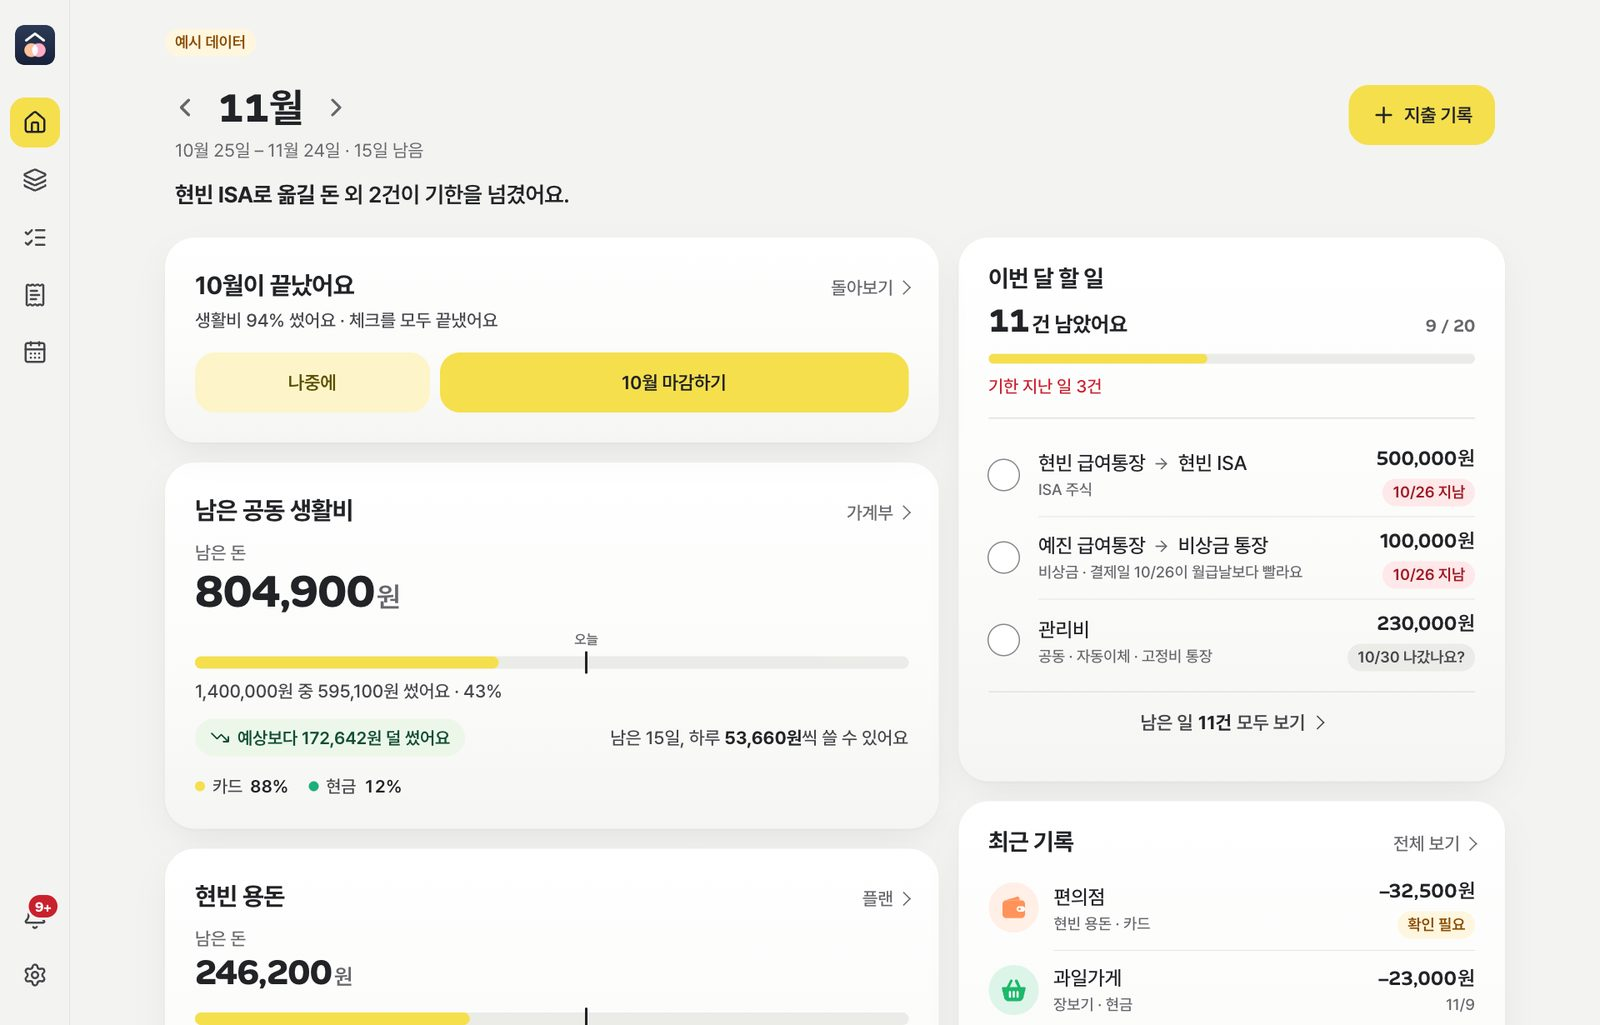
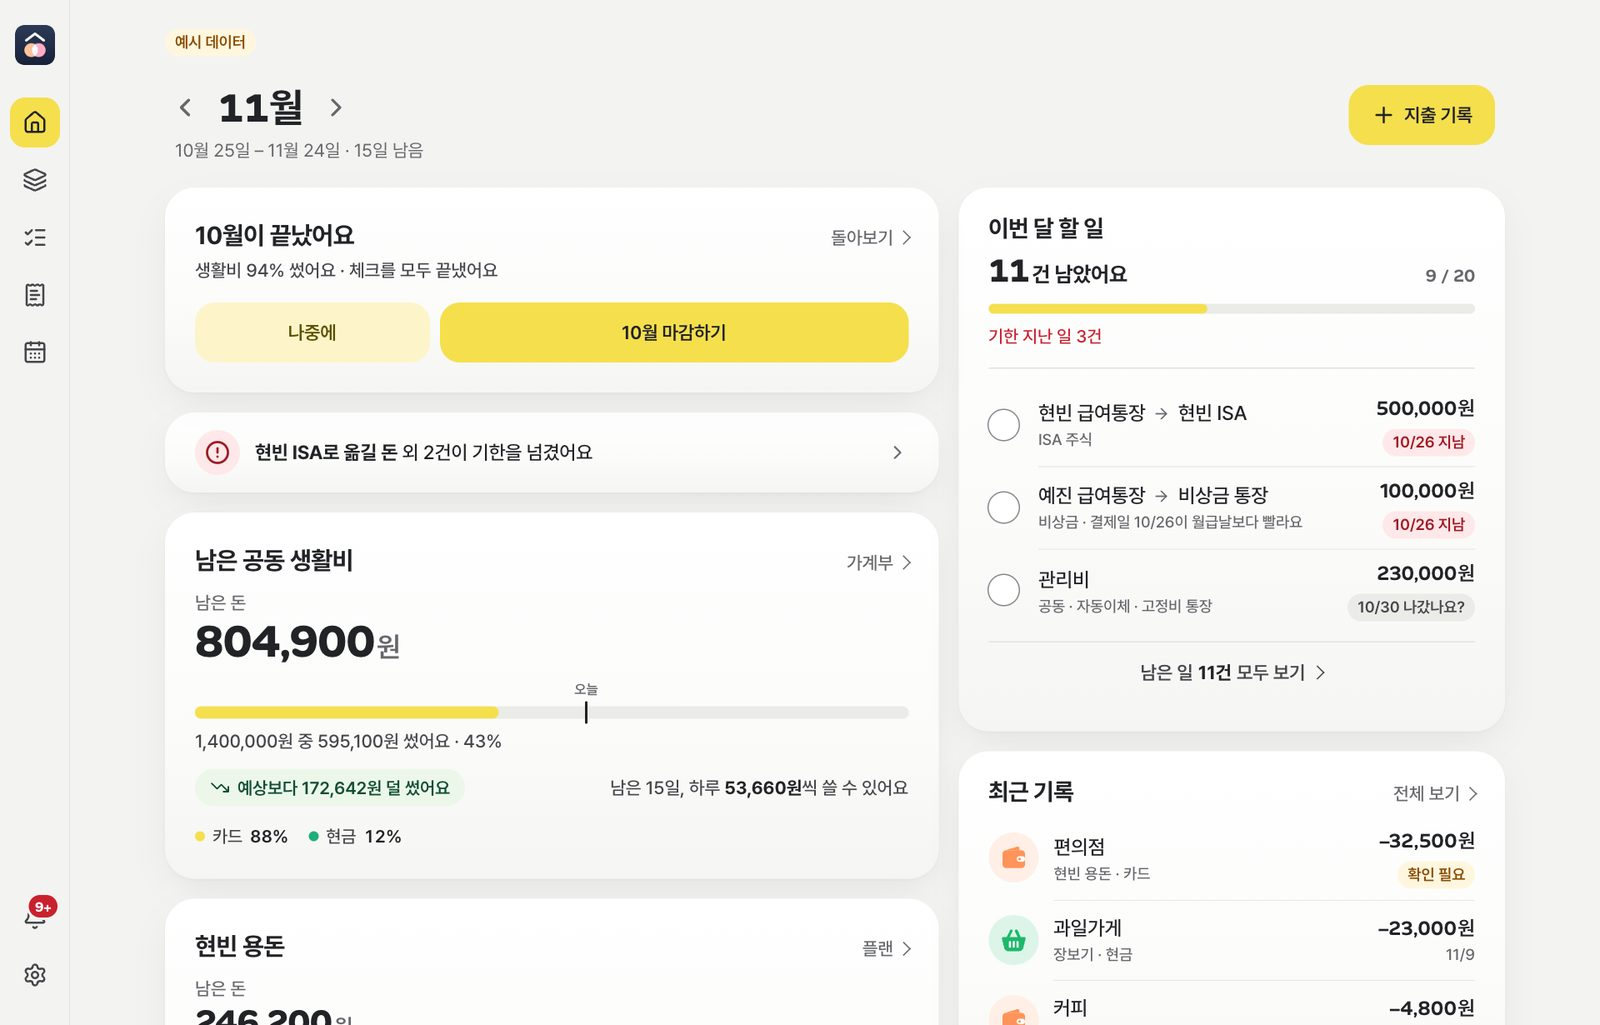
홈 맨 위 결론 문장을 알림 카드로 — 아이콘 원 · 한 줄 · ›, 모든 화면 머리는 달·기간만
체크·플랜처럼 홈도 머리 문장을 없앤다(카드 밖 문장은 글자 폭만큼만 차지해 카드들과 줄이 안 맞음).
- "가장 먼저 알아야 할 것" 우선순위는 그대로(기한 넘김 → 확인 부탁 → 오늘 월급날 → 옮길 돈 → 모두 마침
  → 생활비 빠름 → 다음 월급날), 맨 위 Link 카드 하나로. 아이콘 원 색은 상태 알약 pill-* 와 같고,
  누르면 체크(생활비는 가계부). 할 일 카드와 겹치는 "남은 할 일 N건"뿐이면 카드를 두지 않는다
- 이제 쓰지 않는 .finding CSS 와 finding 글자 토큰 삭제
- 디자인 문서(README 글자, TopBar 문서·미리보기), 변경기록, 스크린샷 2장

diff --git a/apps/web/src/app/page.tsx b/apps/web/src/app/page.tsx
@@ -1,6 +1,7 @@
 "use client";
 
 import Link from "next/link";
+import { ArrowRightLeft, Banknote, CalendarClock, ChevronRight, CircleAlert, CircleCheck, CircleHelp, TrendingUp, type LucideIcon } from "lucide-react";
 import { useData } from "@/lib/store";
 import type { Spending } from "@/lib/types";
 import { allowanceStatus, cardBills, livingStatus, nameOf, spendingsIn } from "@/lib/calc";
@@ -21,6 +22,14 @@ import { Morph } from "@/components/Morph";
 
 /** 홈에 보이는 할 일 수 — 급한 순으로 이만큼만, 나머지는 체크 화면에서 */
 const HOME_TODOS = 3;
+
+/** 홈 맨 위 알림 카드 하나 — 색은 상태 알약과 같은 네 가지 */
+interface Nudge {
+  tone: "negative" | "warning" | "positive" | "neutral";
+  icon: LucideIcon;
+  href: string;
+  text: React.ReactNode;
+}
 
 export default function Home() {
   const { data, month, today, me } = useData();
@@ -54,79 +63,85 @@ export default function Home() {
     data.categories.find((c) => c.id === id)?.name ?? (owner === "joint" ? "미분류" : `${nameOf(s, owner)} 용돈`);
   const accName = (id: string | null) => data.accounts.find((a) => a.id === id)?.name;
 
-  // 이번 달에 가장 먼저 알아야 할 것 한 줄
-  let finding: React.ReactNode;
+  // 이번 달에 가장 먼저 알아야 할 것 하나 — 화면 머리 문장 대신 맨 위 알림 카드(토스 홈의 알림 줄처럼). 할 일 카드와 겹치는 "남은 할 일 N건"이면 두지 않는다
+  let nudge: Nudge | null = null;
   if (overdue.length > 0) {
-    finding = (
-      <>
-        <strong>{overdue[0].kind === "transfer" ? `${ro(overdue[0].to ?? "")} 옮길 돈` : overdue[0].title}</strong>
-        {overdue.length > 1 ? ` 외 ${overdue.length - 1}건이` : iga(overdue[0].kind === "transfer" ? "돈" : overdue[0].title).slice(-1)} 기한을 넘겼어요.
-      </>
-    );
+    nudge = {
+      tone: "negative",
+      icon: CircleAlert,
+      href: "/check",
+      text: (
+        <>
+          <strong>{overdue[0].kind === "transfer" ? `${ro(overdue[0].to ?? "")} 옮길 돈` : overdue[0].title}</strong>
+          {overdue.length > 1 ? ` 외 ${overdue.length - 1}건이` : iga(overdue[0].kind === "transfer" ? "돈" : overdue[0].title).slice(-1)} 기한을 넘겼어요
+        </>
+      ),
+    };
   } else if (asks.length > 0) {
     // 자동으로 나가는 돈은 다그치지 않고 확인만 부탁한다
-    finding = (
-      <>
-        <strong>{asks[0].title}</strong>
-        {asks.length > 1 ? ` 외 ${asks.length - 1}건이` : iga(asks[0].title).slice(-1)} 잘 나갔는지 확인해 주세요.
-      </>
-    );
+    nudge = {
+      tone: "neutral",
+      icon: CircleHelp,
+      href: "/check",
+      text: (
+        <>
+          <strong>{asks[0].title}</strong>
+          {asks.length > 1 ? ` 외 ${asks.length - 1}건이` : iga(asks[0].title).slice(-1)} 잘 나갔는지 확인해 주세요
+        </>
+      ),
+    };
   } else if (paydayToday) {
     const left = paydayToday.transfers.filter((t) => !t.done);
-    finding = (
-      <>
-        <span className="nw">
-          오늘은 <strong>{nameOf(s, paydayToday.person)} 월급날</strong>이에요
-        </span>{" "}
-        <span className="nw clause">
-          <span className="sep">· </span>옮길 돈 {left.length}건 <Money value={left.reduce((a, t) => a + t.amount, 0)} />
-        </span>
-      </>
-    );
+    nudge = {
+      tone: "positive",
+      icon: Banknote,
+      href: "/check",
+      text: (
+        <>
+          오늘은 <strong>{nameOf(s, paydayToday.person)} 월급날</strong>이에요 · 옮길 돈 {left.length}건 <Money value={left.reduce((a, t) => a + t.amount, 0)} />
+        </>
+      ),
+    };
   } else if (pendingTransfers.length > 0) {
-    finding = (
-      <>
-        <span className="nw">
-          옮길 돈 <strong>{pendingTransfers.length}건</strong>이 남았어요
-        </span>{" "}
-        <span className="nw clause">
-          <span className="sep">· </span><Money value={pendingTransfers.reduce((a, t) => a + t.amount, 0)} />
-        </span>
-      </>
-    );
+    nudge = {
+      tone: "neutral",
+      icon: ArrowRightLeft,
+      href: "/check",
+      text: (
+        <>
+          옮길 돈 <strong>{pendingTransfers.length}건</strong>이 남았어요 · <Money value={pendingTransfers.reduce((a, t) => a + t.amount, 0)} />
+        </>
+      ),
+    };
   } else if (open.length === 0 && tasks.length > 0) {
-    finding = <>이번 달 이체와 납부를 모두 마쳤어요.</>;
+    nudge = { tone: "positive", icon: CircleCheck, href: "/check", text: <>이번 달 이체와 납부를 모두 마쳤어요</> };
   } else if (living.pace !== null && living.spent > living.pace) {
-    finding = (
-      <>
-        생활비가 예상보다 <strong>{num(living.spent - living.pace)}원</strong> 빨리 나가고 있어요.
-      </>
-    );
+    nudge = {
+      tone: "warning",
+      icon: TrendingUp,
+      href: "/ledger",
+      text: (
+        <>
+          생활비가 예상보다 <strong>{num(living.spent - living.pace)}원</strong> 빨리 나가고 있어요
+        </>
+      ),
+    };
   } else if (nextPayday && nextPayday.transfers.some((t) => !t.done)) {
-    finding = (
-      <>
-        <span className="nw">
-          다음은 <strong>{nameOf(s, nextPayday.person)} 월급날</strong> {shortDate(nextPayday.date)}
-        </span>{" "}
-        <span className="nw clause">
-          <span className="sep">· </span>
-          {dDay(nextPayday.date, today)}
-        </span>
-      </>
-    );
-  } else {
-    finding = (
-      <>
-        남은 할 일 <strong>{open.length}건</strong>
-      </>
-    );
+    nudge = {
+      tone: "neutral",
+      icon: CalendarClock,
+      href: "/check",
+      text: (
+        <>
+          다음은 <strong>{nameOf(s, nextPayday.person)} 월급날</strong> {shortDate(nextPayday.date)} · {dDay(nextPayday.date, today)}
+        </>
+      ),
+    };
   }
 
   return (
     <>
-      <MonthHeader>
-        <p className="finding">{finding}</p>
-      </MonthHeader>
+      <MonthHeader />
 
       <div className="grid">
         <div className="col span-7">
@@ -134,6 +149,15 @@ export default function Home() {
           <Morph className="close-slot" track=":scope > *">
             <ClosePrompt />
           </Morph>
+          {nudge && (
+            <Link href={nudge.href} className={`card nudge ${nudge.tone}`}>
+              <span className="ic" aria-hidden="true">
+                <nudge.icon />
+              </span>
+              <span className="t">{nudge.text}</span>
+              <ChevronRight className="chev" aria-hidden="true" />
+            </Link>
+          )}
           <BudgetCard id="living-h" className="o1" bucket="living" title="남은 공동 생활비" status={living} link={{ href: "/ledger", label: "가계부" }} />
 
           <BudgetCard

diff --git a/apps/web/src/app/cards.css b/apps/web/src/app/cards.css
@@ -239,6 +239,21 @@
 .highlight .reward b { font: 700 20px/28px var(--font-display); font-variant-numeric: tabular-nums; }
 .highlight .reward > span { color: var(--faint); font: 500 14.5px/20px var(--font-text); }
 
+/* ---------- 홈 맨 위 알림 카드 (Nudge): 화면 머리 문장 대신. 아이콘 원 · 한 줄 · › ---------- */
+.nudge { display: grid; grid-template-columns: 36px minmax(0, 1fr) 18px; align-items: center; gap: 12px; padding-block: 14px; color: var(--text); transition: transform var(--dur-press) var(--ease-press); }
+.nudge:active { transform: scale(0.98); }
+.nudge .ic { display: grid; place-items: center; width: 36px; height: 36px; border-radius: var(--radius-chip); background: var(--pill-neutral-bg); color: var(--pill-neutral-ink); }
+.nudge .ic svg { width: 20px; height: 20px; stroke-width: 2.2; }
+.nudge.negative .ic { background: var(--pill-negative-bg); color: var(--pill-negative-ink); }
+.nudge.warning .ic { background: var(--pill-warning-bg); color: var(--pill-warning-ink); }
+.nudge.positive .ic { background: var(--pill-positive-bg); color: var(--pill-positive-ink); }
+.nudge .t { font: 500 15.5px/22px var(--font-text); letter-spacing: -0.01em; }
+.nudge .t strong { font-weight: 700; }
+.nudge .chev { width: 18px; height: 18px; color: var(--faint); }
+@media (prefers-reduced-motion: reduce) {
+  .nudge { transition: none; }
+}
+
 /* ---------- 지난달 마감 묻기 (ClosePrompt, 홈 맨 위) ---------- */
 
 /* 빈 자리는 칸 간격까지 0 (카드가 빠질 때 간격도 같이 줄어든다) */

diff --git a/docs/design-system/components/TopBar/preview.html b/docs/design-system/components/TopBar/preview.html
@@ -18,7 +18,6 @@
   .band .mini { visibility: hidden; }
   h1 { margin: 0; font: 700 32px/36px var(--font-display); letter-spacing: -0.02em; }
   .sub { margin-top: 6px; color: var(--faint); font: 400 14.5px/20px var(--font-text); }
-  .finding { margin-top: 12px; font: 600 18px/28px var(--font-text); letter-spacing: -0.015em; }
   .cap { margin: 20px 0 8px; color: var(--faint); font: 500 14.5px/20px var(--font-text); }
   .plain { max-width: 390px; display: grid; gap: 22px; padding: 16px var(--edge) 20px; box-sizing: border-box; }
   .title-row { display: flex; align-items: center; gap: 12px; flex-wrap: wrap; }
@@ -37,7 +36,6 @@
     <div>
       <h1>11월</h1>
       <div class="sub">10월 25일 – 11월 24일 · 21일 남음</div>
-      <div class="finding">현빈 ISA로 옮길 돈 외 3건이 기한을 넘겼어요.</div>
     </div>
   </header>
 

diff --git a/apps/web/src/app/shell.css b/apps/web/src/app/shell.css
@@ -121,8 +121,6 @@ div.bar-mini { display: flex; align-items: center; justify-content: center; gap:
   .page-head :is(.month-arrow, .month-btn):hover, .mini-title:hover, .mini-step:hover { background: var(--tab-active-bg); color: var(--text); }
   .back-btn:hover, .range-btn:hover { background: var(--tab-active-bg); }
 }
-.finding { margin-top: 12px; font: 600 18px/28px var(--font-text); letter-spacing: -0.015em; }
-.finding strong { font-weight: 700; }
 .head-action { display: none; }
 
 /* ---------- 하단 캡슐 (TabBar) + 원형 기록 버튼 ---------- */

diff --git a/apps/web/src/app/globals.css b/apps/web/src/app/globals.css
@@ -79,8 +79,8 @@ button, a, [role="button"], .chip, .tab, .seg button, .preset, .db {
 .kpi-sub .money { color: var(--muted); }
 /* 좁은 폰에서는 쉼표 대신 마디마다 줄을 바꾼다 */
 @media (max-width: 639px) {
-  .finding .sep, .kpi-sub .sep { display: none; }
-  .finding .clause, .kpi-sub .clause { display: block; }
+  .kpi-sub .sep { display: none; }
+  .kpi-sub .clause { display: block; }
 }
 .split-note { display: none; }
 @media (min-width: 640px) { .split-note { display: block; } }

diff --git a/docs/design-system/README.md b/docs/design-system/README.md
@@ -93,7 +93,7 @@
   - **돈의 방향은 부호로 씁니다(토스·은행 앱처럼):** 지출 한 건과 나갈 돈(카드값·고정비·저축 이체) 줄은 `−89,000원`(글자색 그대로), 들어올 돈(월급날)은 `+3,800,000원`을 `positive`로 씁니다. 달력 칸의 월급날도 `+380만`을 `positive`로 둡니다. 합계·예산·남은 돈처럼 방향이 아닌 양은 부호 없이 씁니다.
 - 답 숫자 뒤의 "원"은 숫자의 0.62em, 굵기 600, `faint`입니다.
 - 한글은 `word-break: keep-all`로 단어째 줄을 바꿉니다.
-- 제목은 `large-title` → 기간 줄 `subhead`(`faint`)입니다. **결론은 화면 머리에 문장으로 띄우지 않고 첫 카드 안에** 둡니다(토스·뱅크샐러드의 요약 카드처럼): 체크는 요약 카드(남은 건수), 플랜은 "월급이 나뉘는 곳"(수입과 남은 돈), 가계부는 누적 지출 카드. 머리 문장은 카드 밖이라 글자 폭만큼만 차지해 아래 카드들과 줄이 맞지 않습니다. 홈만 아직 결론 한 줄(`finding`)을 둡니다.
+- 제목은 `large-title` → 기간 줄 `subhead`(`faint`)입니다. **결론은 화면 머리에 문장으로 띄우지 않고 첫 카드 안에** 둡니다(토스·뱅크샐러드의 요약 카드처럼): 체크는 요약 카드(남은 건수), 플랜은 "월급이 나뉘는 곳"(수입과 남은 돈), 가계부는 누적 지출 카드. 머리 문장은 카드 밖이라 글자 폭만큼만 차지해 아래 카드들과 줄이 맞지 않습니다. 홈은 "지금 가장 먼저 알아야 할 것" 하나를 맨 위 **알림 카드**(아이콘 원 · 한 줄 · ›)로 둡니다: 기한 넘긴 일(`negative`, `CircleAlert`) → 잘 나갔는지 확인(`neutral`, `CircleHelp`) → 오늘 월급날(`positive`, `Banknote`) → 옮길 돈 남음(`neutral`) → 모두 마침(`positive`) → 생활비 빠름(`warning`, `TrendingUp`, 가계부로) → 다음 월급날(`neutral`) 순서로 하나만 고르고, 누르면 체크(생활비는 가계부)로 갑니다. 아이콘 원 색은 상태 알약(`pill-*-bg`·`pill-*-ink`)과 같습니다. 할 일 카드와 겹치는 "남은 할 일 N건"뿐이면 카드를 두지 않습니다.
 - 자주 안 쓰는 화면 단위 행동(예: 플랜 "다른 달에서 항목 가져오기")은 머리에 버튼으로 두지 않고 화면 맨 아래 한 줄 카드(아이콘 · 제목 · 설명 · ›)로 둡니다.
 - **웹 앱에서 Alan Sans 쓰기:** `font-src 'self'` CSP 때문에 Google Fonts에서 직접 불러올 수 없습니다. 앱은 숫자·영문·돈 기호(−, –, ·, ×)만 남긴 woff2(24KB, 굵기 300–900 가변, `tnum` 포함)를 `/fonts/alan-sans/`에 두고 미리 불러옵니다(SIL OFL 1.1). 이 가이드의 미리보기는 Google Fonts에서 불러옵니다.
 

diff --git a/CHANGELOG.md b/CHANGELOG.md
@@ -16,6 +16,7 @@
 - 플랜 "월급이 나뉘는 곳"은 원형 그래프 대신 **수입을 큰 숫자로** 쓰고, 그 아래 한 줄로 쌓은 막대(주황 고정비 · 노랑 생활비 · 파랑 용돈 · 초록 저축 · 회색 남음)와 금액 목록을 둬요. 이름을 누르면 막대에서 그 조각만 남고 항목이 펼쳐져요. "모으는 목표" 막대와 달력 모아 보기의 할 일 막대(초록이던 것)도 예산 막대와 같은 노랑 막대로 맞췄고, 기간 모아 보기의 "이 기간 쓴 돈" 카드는 그라데이션 없이 옅은 노랑 한 색이에요.
 - 체크와 플랜 맨 위가 토스·뱅크샐러드처럼 바뀌었어요. 화면 머리에는 달과 기간만 두고, 체크는 첫 카드에 **"11건 남았어요"**와 막대, 남은 묶음 줄(옮길 돈 2건 · 600,000원 ›…)을 둬요 — 줄을 누르면 그 카드로 내려가요. 플랜은 "월급이 나뉘는 곳" 카드가 "926,100원 남았어요"를 말하고, "다른 달에서 불러오기"는 화면 맨 아래 한 줄 카드 "다른 달에서 항목 가져오기"로 옮겼어요.
 - 홈 "이번 달 할 일"이 체크 요약과 같은 모양이 됐어요: 큰 숫자 **"11건 남았어요"**와 막대, 기한 지난 일 한 줄, 그리고 급한 순 **3건만** 보여요(전엔 6건). 나머지는 맨 아래 "남은 일 11건 모두 보기 ›"로 체크에서 봐요. 달력의 메뉴 버튼은 달 제목 왼쪽에서 제목 줄 오른쪽 끝으로 옮기고, 아이콘 아래 "모아보기" 이름을 붙였어요.
+- 홈 맨 위의 결론 문장("현빈 ISA로 옮길 돈 외 2건이 기한을 넘겼어요.")을 **알림 카드**로 바꿨어요. 아이콘 원(기한 넘김은 빨강, 생활비가 빠르면 주황, 월급날·모두 마침은 초록)과 한 줄, ›가 있고 누르면 체크(생활비는 가계부)로 가요. 할 일 카드와 겹치는 "남은 할 일 N건"뿐이면 카드를 두지 않아요. 이제 모든 화면 머리에는 달과 기간만 있어요.
 - **DB 이전:** 없음
 
 - 가계부 누적 그래프를 누르면 뜨는 날짜별 금액 말풍선이 그래프 안쪽에 떠요. 위 글자를 가리지 않고, 선과 오늘 점을 덜 가리는 자리(왼쪽·오른쪽, 위·아래)를 골라요.

diff --git a/docs/design-system/components/TopBar/README.md b/docs/design-system/components/TopBar/README.md
@@ -13,7 +13,7 @@
 - **굴릴 때:** 막대는 화면 위에 붙어 있습니다. 큰 제목이 막대 아래 선을 지나 올라가면 막대 바탕이 유리(`surface` 72% + blur 20px·saturate 180%)가 됩니다. 유리는 선 없이 막대 밑으로 16px 더 내려와 그 16px 동안 옅어집니다(유리가 나타나고 사라지는 것은 투명도만, `dur-press`). 굴릴 때마다 재지 않고 제목이 지나가는 순간에만 바꿉니다(IntersectionObserver).
 - **설정 화면:** 톱니 아이콘을 `accent-ink`의 굵은 선(2.4)으로 바꿔 지금 화면임을 알립니다.
 - **데스크톱:** 종과 톱니는 레일 아래(종이 톱니 위)로 옮기고 막대에서는 뺍니다.
-- **큰 제목 줄:** `‹ 11월 ›`(`large-title`) 아래에 기간 줄(`subhead`, "10월 25일 – 11월 24일 · 21일 남음")을 둡니다. 결론 문장은 두지 않고 첫 카드가 말합니다(홈만 결론 한 줄 `finding`). 화면 읽기용 h1에는 "11월 체크"처럼 월과 화면 이름을 남깁니다. 다른 달을 보고 있으면 제목 옆에 회색 알약 "이번 달로"(32px)를 둡니다.
+- **큰 제목 줄:** `‹ 11월 ›`(`large-title`) 아래에 기간 줄(`subhead`, "10월 25일 – 11월 24일 · 21일 남음")을 둡니다. 결론 문장은 두지 않고 첫 카드가 말합니다(홈은 맨 위 알림 카드, README "글자"). 화면 읽기용 h1에는 "11월 체크"처럼 월과 화면 이름을 남깁니다. 다른 달을 보고 있으면 제목 옆에 회색 알약 "이번 달로"(32px)를 둡니다.
   - 화살표는 바뀌는 것(달)만 감쌉니다. 달 이름은 두 자리 폭을 잡아 1월이든 11월이든, 탭 이름이 무엇이든 화살표가 같은 자리에 있습니다.
   - 화살표는 `faint` 24px, 누르는 칸은 44px이고 왼쪽 화살표 글리프를 여백 선에 맞춥니다. "11월"을 누르면 달 고르기 시트가 열립니다.
   - 달을 넘기면 이 줄은 제자리에 있고, 달 이름만 그 방향에서 12px 밀려 들어옵니다(`dur-tab`·`ease-drawer`). 아래 내용은 28px 밀려 들어오고, 좌우로 밀 때도 아래 내용만 손가락을 따라갑니다.
